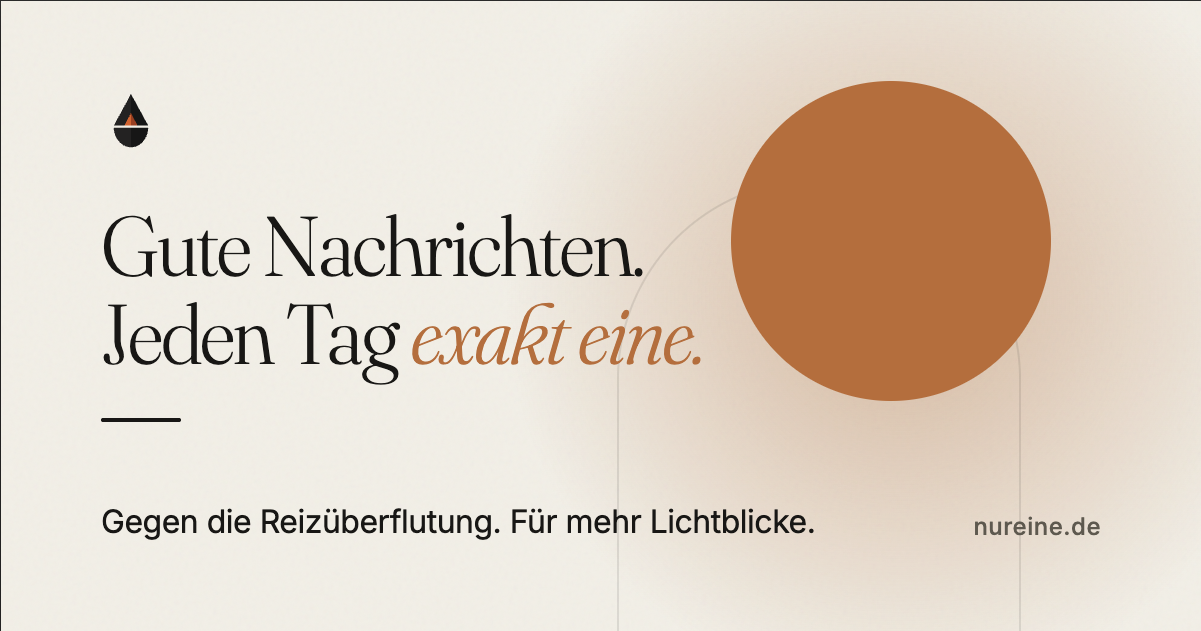
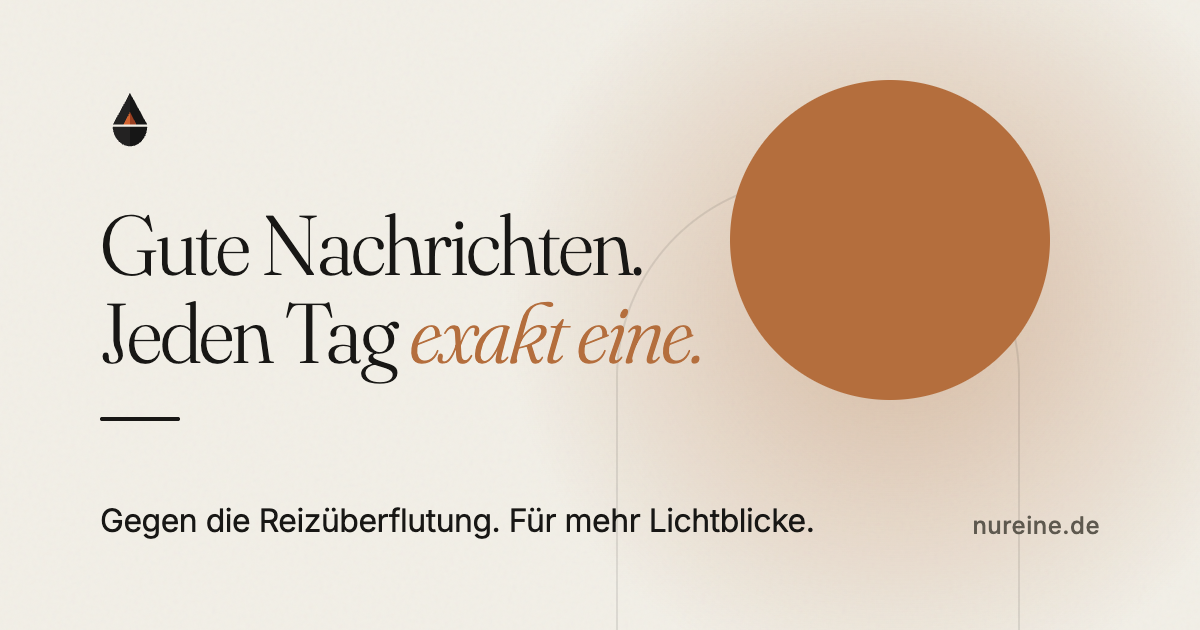
Refactor code structure for improved readability and maintainability

diff --git a/src/routes/og-preview/[slug]/+page.server.ts b/src/routes/og-preview/[slug]/+page.server.ts
@@ -1,19 +1,24 @@
-import { getStoryBySlug } from '$lib/server/queries';
+import { getAllStories, getStoryBySlug } from '$lib/server/queries';
 import { error } from '@sveltejs/kit';
 import type { PageServerLoad } from './$types';
 
 export const load: PageServerLoad = async ({ params }) => {
 	const { slug } = params;
-	const story = await getStoryBySlug(slug);
+	let story = await getStoryBySlug(slug);
 
 	if (!story) {
-		error(404, 'Story not found');
+		const allStories = await getAllStories();
+		story = allStories.find((s) => s.slug.startsWith(slug) || slug.startsWith(s.slug));
+	}
+
+	if (!story) {
+		throw error(404, 'Story not found');
 	}
 
 	// Extract OG image URLs from the og_image_srcset metadata
 	// Falls back to og_image_url if srcset metadata is not available
-	const ogImageSrcset = story.og_image_srcset || {
-		png_1x: story.og_image_url,
+	const ogImageSrcset = story.ogImageSrcset || {
+		png_1x: story.ogImageUrl,
 		png_2x: null,
 		webp_1x: null,
 		webp_2x: null,
@@ -23,7 +28,7 @@ export const load: PageServerLoad = async ({ params }) => {
 
 	const og = {
 		'1x': {
-			png: ogImageSrcset.png_1x || story.og_image_url,
+			png: ogImageSrcset.png_1x || story.ogImageUrl,
 			webp: ogImageSrcset.webp_1x,
 			avif: ogImageSrcset.avif_1x
 		},

diff --git a/src/routes/+layout.svelte b/src/routes/+layout.svelte
@@ -35,9 +35,11 @@
                 'Wir filtern tausende Quellen mit KI auf das Wesentliche. Eine gute Nachricht am Tag gegen die Reizüberflutung. Exklusiv, neutral und kuratiert.'
         );
 
+        // PNG for og:image — universal compatibility with iMessage, WhatsApp, Facebook, Twitter
+        // (none of these platforms reliably support WebP in link previews)
         const seoImage = $derived(
-                isStory 
-                        ? (page.data.story.ogImageUrl || `https://nureine.de/api/og/${page.data.story.slug}`) 
+                isStory
+                        ? (page.data.story.ogImageUrl || `https://nureine.de/api/og/${page.data.story.slug}`)
                         : 'https://nureine.de/og-default.png'
         );
 
@@ -52,8 +54,10 @@
         <meta property="og:description" content={seoDesc} />
         <meta property="og:type" content={seoType} />
         <meta property="og:image" content={seoImage} />
+        <meta property="og:image:type" content="image/png" />
         <meta property="og:image:width" content="1200" />
         <meta property="og:image:height" content="630" />
+        <meta property="og:image:alt" content={seoTitle} />
         <meta property="og:url" content={canonicalUrl} />
         <meta property="og:site_name" content="NurEine" />
         <meta property="og:locale" content="de_DE" />
@@ -62,6 +66,7 @@
         <meta name="twitter:title" content={seoTitle} />
         <meta name="twitter:description" content={seoDesc} />
         <meta name="twitter:image" content={seoImage} />
+        <meta name="twitter:image:alt" content={seoTitle} />
 
         <link rel="canonical" href={canonicalUrl} />
 

diff --git a/src/lib/server/queries.ts b/src/lib/server/queries.ts
@@ -4,6 +4,8 @@ import { PUBLIC_BASE_URL } from '$env/static/public';
 
 // ---- Types ----
 
+export type OgImageSrcset = Record<string, string | null>;
+
 export type SupabaseStory = {
   id: string;
   title: string;
@@ -25,6 +27,7 @@ export type SupabaseStory = {
   emoji: string | null;
   image_url: string | null;
   og_image_url: string | null;
+  og_image_srcset: OgImageSrcset | null;
   is_hero: boolean;
   published_at: string;
   created_at: string;
@@ -55,6 +58,7 @@ export type StoryResult = {
   imageUrl: string | null;
   image_url: string | null;
   ogImageUrl: string | null;
+  ogImageSrcset: OgImageSrcset | null;
   pinned: number;
   local: number;
   featuredDate: string | null;
@@ -111,6 +115,7 @@ function mapStory(row: SupabaseStory): StoryResult {
     imageUrl: row.image_url,
     image_url: row.image_url,
     ogImageUrl: row.og_image_url || null,
+    ogImageSrcset: row.og_image_srcset || null,
     pinned: 0,
     local: 0,
     featuredDate: row.is_hero ? row.published_at : null,

diff --git a/scripts/generate_default_og.py b/scripts/generate_default_og.py
@@ -6,7 +6,16 @@ Composition: Left-aligned editorial typography over a warm beige background,
 accented by an abstract rising sun (a single glowing amber orb) on the right
 to symbolize "Lichtblick" and the single daily good news.
 
-Output: static/og-default.png (1200x630)
+Output:
+  static/og-default.png      — 1200x630 (1x, PNG, universal OG fallback)
+  static/og-default-2x.png   — 2400x1260 (2x, PNG, retina displays)
+  static/og-default.webp     — 1200x630 (1x, WebP, website srcset)
+
+OG meta tag notes:
+  - og:image uses PNG because iMessage, WhatsApp, Facebook, and Twitter
+    DO NOT reliably support WebP in link previews.
+  - WebP variants are for website <img> tags via srcset (performance).
+  - The 2x PNG targets high-DPI screens (retina).
 """
 from __future__ import annotations
 
@@ -99,9 +108,29 @@ except Exception:
 draw.text((left_margin, H - left_margin), "nureine.de", fill=SOFT, font=dom_font)
 
 # ------------------------------------------------------------------
-# Save
+# Save — all formats
 # ------------------------------------------------------------------
-out = os.path.join(_sd, "..", "static", "og-default.png")
-os.makedirs(os.path.dirname(out), exist_ok=True)
-img.save(out, format="PNG", optimize=True)
-print(f"Default OG saved: {out}")
+static_dir = os.path.join(_sd, "..", "static")
+os.makedirs(static_dir, exist_ok=True)
+
+# Normalize to exact 1200x630
+if img.size == (1201, 631):
+    img = img.crop((1, 1, 1201, 631))
+elif img.size != (1200, 630):
+    img = img.resize((1200, 630), Image.Resampling.LANCZOS)
+
+# 1x PNG — universal OG compatibility (iMessage, WhatsApp, FB, Twitter)
+out_png = os.path.join(static_dir, "og-default.png")
+img.save(out_png, format="PNG", optimize=True, compress_level=9)
+print(f"Default OG (1x PNG):  {out_png}")
+
+# 2x PNG — retina / high-DPI displays
+img_2x = img.resize((W * 2, H * 2), Image.Resampling.LANCZOS)
+out_png_2x = os.path.join(static_dir, "og-default-2x.png")
+img_2x.save(out_png_2x, format="PNG", optimize=True, compress_level=9)
+print(f"Default OG (2x PNG):  {out_png_2x}")
+
+# 1x WebP — website <img> srcset (modern browsers, ~60% smaller)
+out_webp = os.path.join(static_dir, "og-default.webp")
+img.save(out_webp, format="WEBP", quality=85, method=6)
+print(f"Default OG (1x WebP): {out_webp}")